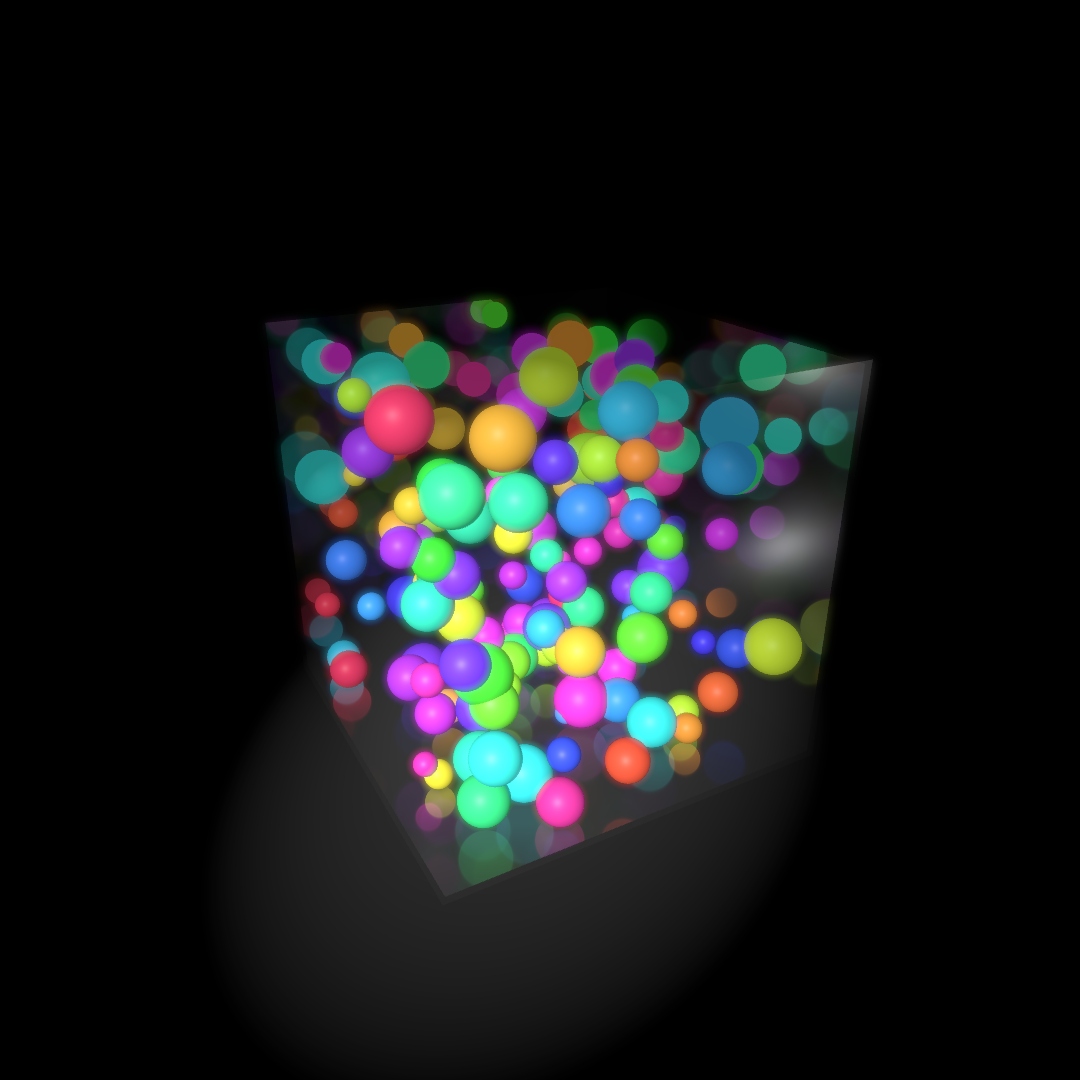
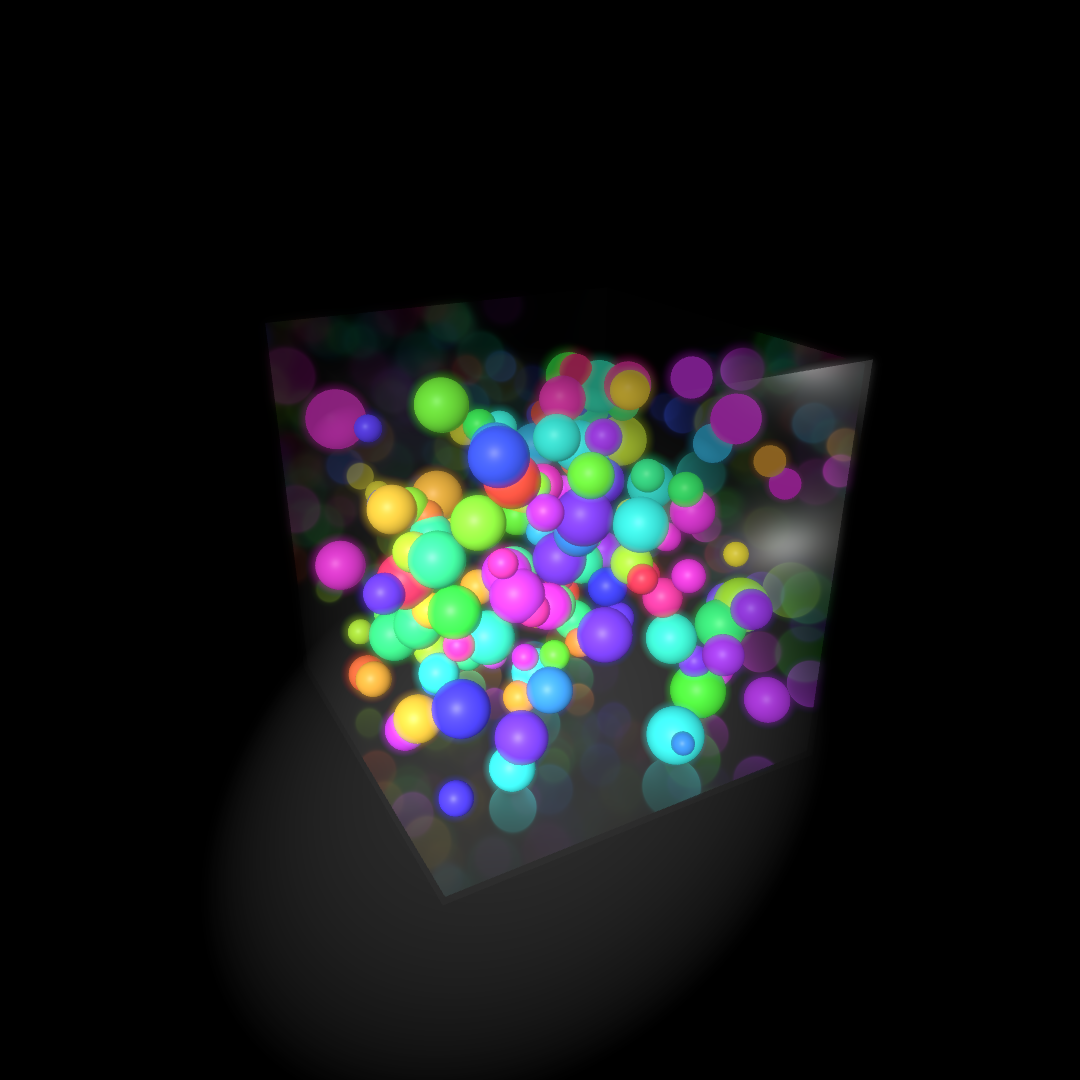
Improve physics barrier logic
If a particle crosses a barrier then rewind to that point of striking, 
reflect the velocity and then play back forwards again. This results in 
(almost) perfect reflections. The bounce example needed to be tweaked to 
deal with the new, better, reflections. Also added checks to try not to 
store broken particle state if the simulation goes out of control.

Changed region(s): [[0.2444, 0.275, 0.7944, 0.825]]

diff --git a/tests/test_vector.py b/tests/test_vector.py
@@ -259,6 +259,16 @@ class TestVector(utils.TestCase):
                     if t2 is not None and t2 is not t:
                         self.assertFalse(vector.isinstance(t2))
 
+    def test_is_finite(self):
+        self.assertTrue(null.is_finite())
+        self.assertFalse(Vector("Hello world!").is_finite())
+        self.assertTrue(Vector(1).is_finite())
+        self.assertFalse(Vector(math.inf).is_finite())
+        self.assertFalse(Vector(math.nan).is_finite())
+        self.assertFalse((Vector(1) / Vector(0)).is_finite())
+        self.assertFalse(Vector([0, -math.inf]).is_finite())
+        self.assertFalse(Vector([1, math.nan]).is_finite())
+
     def test_as_bool(self):
         self.assertFalse(null)
         self.assertFalse(false)

diff --git a/docs/physics.md b/docs/physics.md
@@ -122,7 +122,7 @@ position updated based on this.
 ```
 
 ```{math}
-\vec{p}_{t+\Delta t} = \vec{p}_t + \vec{v}_{t+\Delta t} \cdot \Delta t
+\vec{p}_{t+\Delta t} = \vec{p}_t + {{\vec{v}_t + \vec{v}_{t+\Delta t}} \over 2} \cdot \Delta t
 ```
 
 The attributes that specify properties of the particle are:
@@ -142,7 +142,7 @@ force vector (does nothing if `force` is not specified)
 in collision detection and when calculating drag force (defaults to 1 and will
 be clamped to zero if negative)
 - `mass` - specifies a value to be used both as the inertial component of
-converting forces into accelleration and as the mass for computing gravitic
+converting forces into acceleration and as the mass for computing gravitic
 attraction (defaults to 1 and will be clamped to zero if negative)
 - `charge` - specifies a value to be used for calculating electrostatic force
 (defaults to 1)
@@ -171,17 +171,17 @@ for the purposes of calculating attraction due to gravity.
 A `!barrier` constrains all particles to be on one side of it. In the case of
 a system with 3 dimensions, this will be an infinite plane; with 2 dimensions,
 a line; and with 1 dimension, a point. Particles that hit a barrier will
-"bounce" by reflecting the velocity.
+"bounce" by reflecting their velocity using the normal of the barrier.
 
 - `position` - specifies the origin for the barrier
 - `normal` - specifies the orientation of the barrier; particles are
 constrained to be on the side of the barrier in the direction of this vector
 - `restitution` - the coefficient of restitution (default is `1`)
 
-Particles bouncing off a barrier will have reflected speed in proportion to
-their original speed multiplied by the coefficient of restitution: a value of
-`1` will result in a perfectly elastic collision, whereas `0` would mean all of
-the particle's velocity is absorbed.
+Particles bouncing off a barrier will have reflected speed equal to the speed
+at which they hit the barrier multiplied by the coefficient of restitution: a
+value of `1` will result in a perfectly elastic collision, whereas `0` would
+mean all of the particle's velocity is absorbed.
 
 ### `!constant`
 
